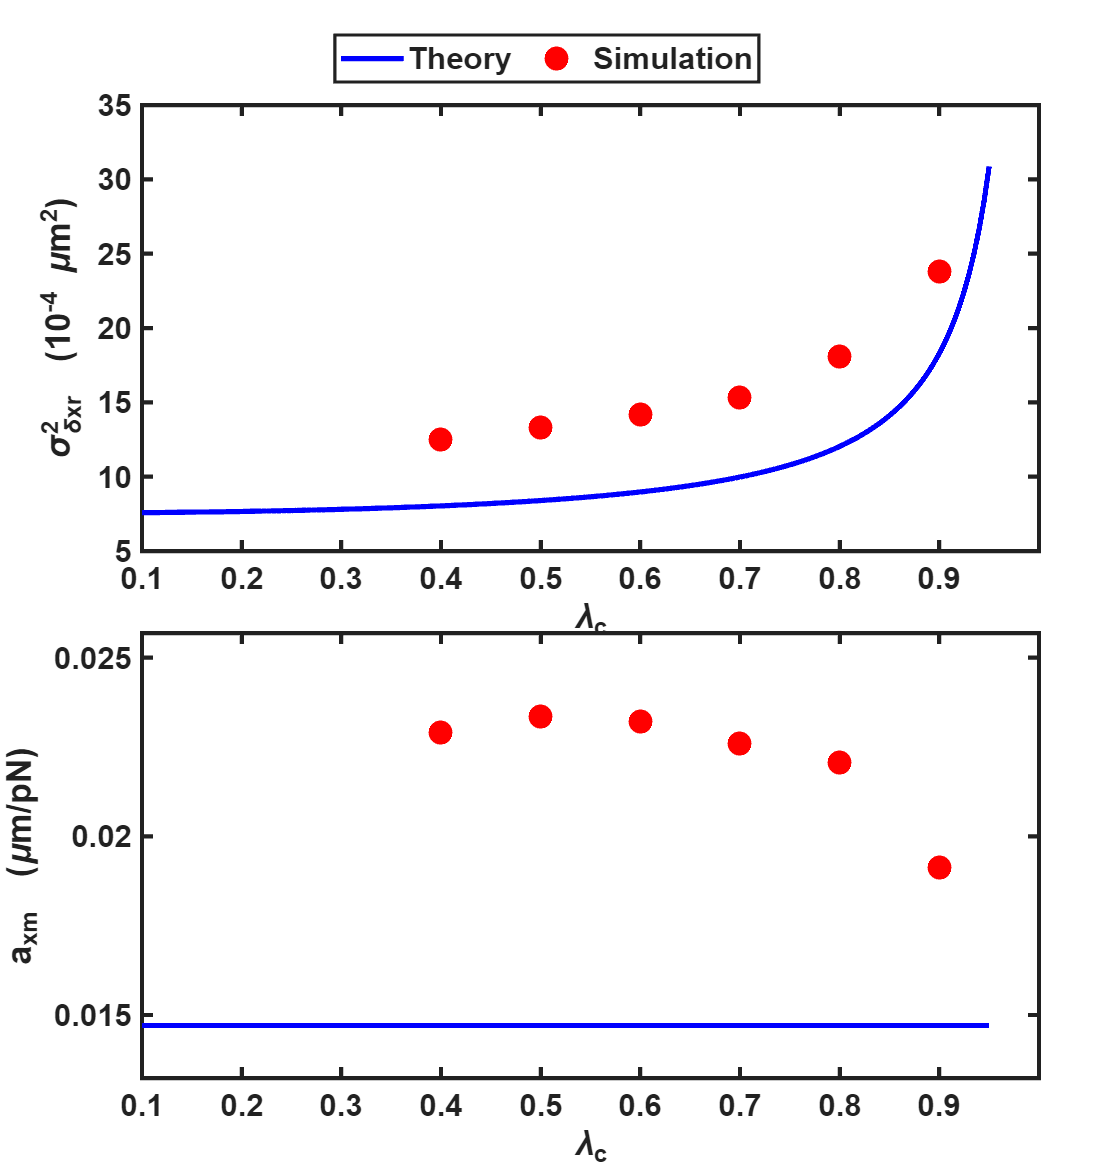
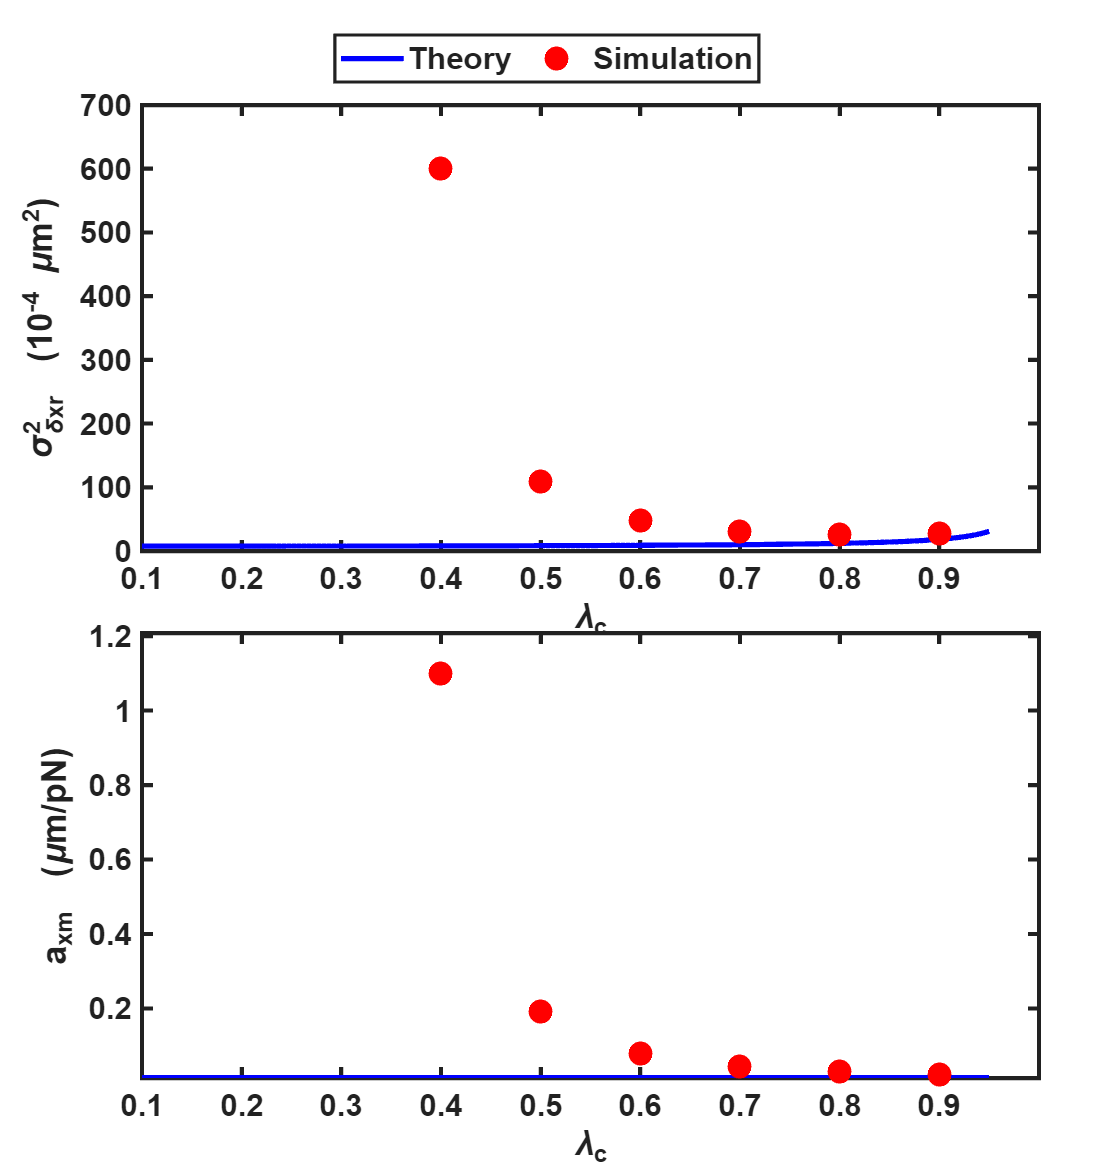
Fix observer gains and EKF execution order to match derivation
- Observer gains: L1=lc-3*le, L2=lc^2-3*lc*le+3*le^2, L3=(lc-le)^3
  (closed-loop A(3,3)=lc pole placement, gains now depend on lc)
- EKF: control computed BEFORE state update (uses pre-update dz3_hat)
- EKF: fix sequential-assignment bug with temp variables for all 7 states
- Both verify_eq13_estimator.m and verify_eq13_unified.m updated

diff --git a/verify_eq13_unified.m b/verify_eq13_unified.m
@@ -32,11 +32,8 @@ Avar   = 0.05;                  % deterministic/stochastic separation
 Avar22 = 0.05;                  % stochastic residual mean tracking
 Avar3  = 0.05;                  % stochastic residual mean-square tracking
 
-% 3-state estimator pole
+% 3-state estimator pole (gains depend on lc, computed inside loop)
 lambda_e = 0.3;
-L1 = 1 - 3*lambda_e;
-L2 = 1 - 3*lambda_e + 3*lambda_e^2;
-L3 = (1 - lambda_e)^3;
 
 % 7-state EKF parameters (from Simulink Parameters block)
 beta_ekf = 0.5;                 % w1-w2 estimator parameter
@@ -145,6 +142,11 @@ for idx = 1:n_lc
     % =====================================================================
     % METHOD 2: 3-state estimator (pole placement)
     % =====================================================================
+    % Observer gains (closed-loop A(3,3)=lc pole placement)
+    L1 = lc - 3*lambda_e;
+    L2 = lc^2 - 3*lc*lambda_e + 3*lambda_e^2;
+    L3 = (lc - lambda_e)^3;
+
     rng(42 + idx);
     fT = sigma_fT * randn(N, 1);
 
@@ -299,18 +301,21 @@ for idx = 1:n_lc
         Pfz = Fe_cl * Pz * Fe_cl' + QQ_fix;
         Pfz = 0.5*(Pfz + Pfz');
 
-        % State update
-        inj = Lk * esti_error;
-        dz1_hat = dz2_hat + inj(1);
-        dz2_hat = dz3_hat + inj(2);
-        dz3_hat = lc * dz3_hat + inj(3);
-        zD1_hat = (1+beta_ekf)*zD1_hat - beta_ekf*zD2_hat + inj(4);
-        zD2_hat = zD1_hat + inj(5);
-        az1_hat = (1+beta_ekf)*az1_hat - beta_ekf*az2_hat + inj(6);
-        az2_hat = az1_hat + inj(7);
-
-        % Control law: use KNOWN a_x
+        % Control law: use KNOWN a_x and CURRENT dz3_hat (before update)
         fd_k = (1/a_x) * (1 - lc) * dz3_hat;
+
+        % State update (use temp variables to avoid sequential-assignment bug)
+        inj = Lk * esti_error;
+        dz1_new = dz2_hat + inj(1);
+        dz2_new = dz3_hat + inj(2);
+        dz3_new = lc * dz3_hat + inj(3);
+        zD1_new = (1+beta_ekf)*zD1_hat - beta_ekf*zD2_hat + inj(4);
+        zD2_new = zD1_hat + inj(5);
+        az1_new = (1+beta_ekf)*az1_hat - beta_ekf*az2_hat + inj(6);
+        az2_new = az1_hat + inj(7);
+        dz1_hat = dz1_new; dz2_hat = dz2_new; dz3_hat = dz3_new;
+        zD1_hat = zD1_new; zD2_hat = zD2_new;
+        az1_hat = az1_new; az2_hat = az2_new;
 
         z_new = z + a_x * (fd_k + fT(k));
         if k < N, z_hist(k+1) = z_new; end

diff --git a/verify_eq13_estimator.m b/verify_eq13_estimator.m
@@ -20,15 +20,11 @@ a_x      = Ts / gammaN;                                    % mobility [um/pN]
 sigma_fT  = sqrt(4 * kb * T_temp * (gammaN * 1e-6) / Ts * 1e24); % thermal force std [pN]
 
 %% ===== Estimator: Pole Placement =====
-% All 3 estimator poles at lambda_e; expand (z - lambda_e)^3 for gains L1, L2, L3
+% All 3 estimator poles at lambda_e; gains derived from A(3,3) = lc:
+%   L1 = lc - 3*le,  L2 = lc^2 - 3*lc*le + 3*le^2,  L3 = (lc - le)^3
+% Gains depend on lc, so they are computed inside the main loop.
 lambda_e = 0.3;
-
-L1 = 1 - 3*lambda_e;
-L2 = 1 - 3*lambda_e + 3*lambda_e^2;
-L3 = (1 - lambda_e)^3;
-
-fprintf('Estimator pole placement: lambda_e = %.1f\n', lambda_e);
-fprintf('L = [%.3f, %.3f, %.3f]\n\n', L1, L2, L3);
+fprintf('Estimator pole placement: lambda_e = %.1f\n\n', lambda_e);
 
 %% ===== Simulation Parameters =====
 lc_sim   = [0.4, 0.5, 0.6, 0.7, 0.8, 0.9];  % lambda_c > lambda_e = 0.3
@@ -55,6 +51,11 @@ for idx = 1:n_lc
     den_eq13 = 4 * kb * T_temp * C_lc;
 
     % --- Method 1: 3-state estimator ---
+    % Observer gains (closed-loop A(3,3)=lc pole placement)
+    L1 = lc - 3*lambda_e;
+    L2 = lc^2 - 3*lc*lambda_e + 3*lambda_e^2;
+    L3 = (lc - lambda_e)^3;
+
     rng(42 + idx);
     fT = sigma_fT * randn(N, 1);          % thermal force [pN]
 
@@ -74,7 +75,8 @@ for idx = 1:n_lc
         % Innovation
         innov = dzm - dz1_hat;
 
-        % Control law (uses dz3_hat = current displacement estimate)
+        % Control law: fd = (1/a_x)*[(z_d[k]-z_d[k-1]) + (1-lc)*dz3_hat]
+        % Feedforward term is 0 for stationary z_d.
         fd_k = (1/a_x) * (1 - lc) * dz3_hat;   % [pN]
 
         % Estimator update
@@ -154,9 +156,9 @@ den_test = 4 * kb * T_temp * C_test;
 
 for j = 1:length(le_list)
     le = le_list(j);
-    L1t = 1 - 3*le;
-    L2t = 1 - 3*le + 3*le^2;
-    L3t = (1 - le)^3;
+    L1t = lc_test - 3*le;
+    L2t = lc_test^2 - 3*lc_test*le + 3*le^2;
+    L3t = (lc_test - le)^3;
 
     rng(99);
     fT = sigma_fT * randn(N, 1);
